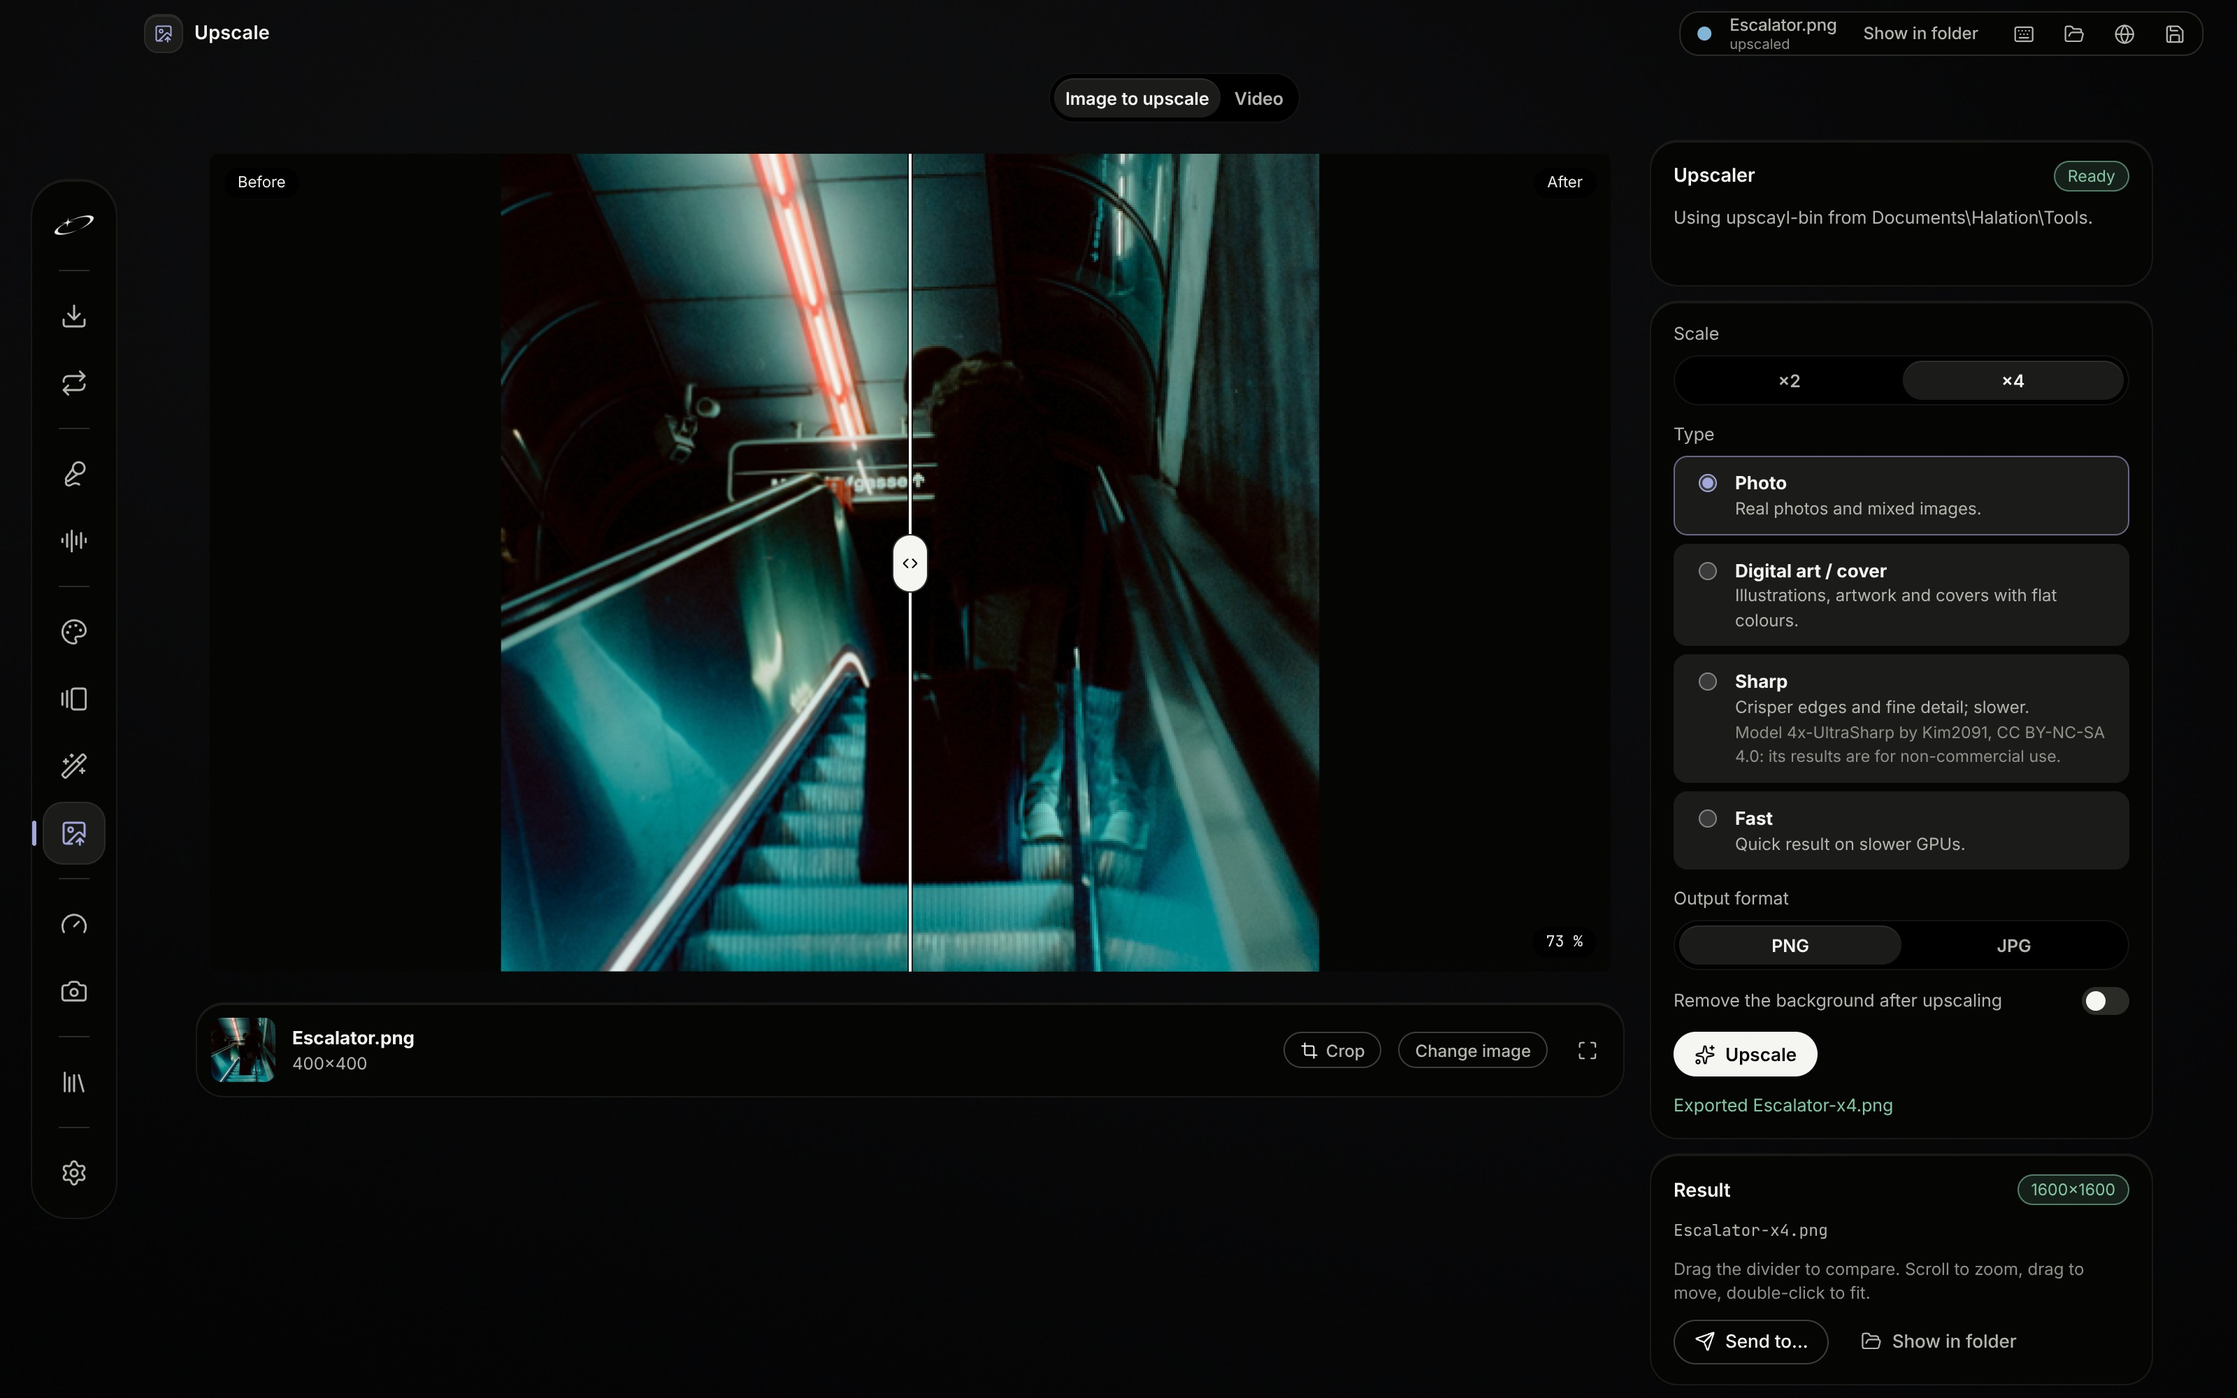
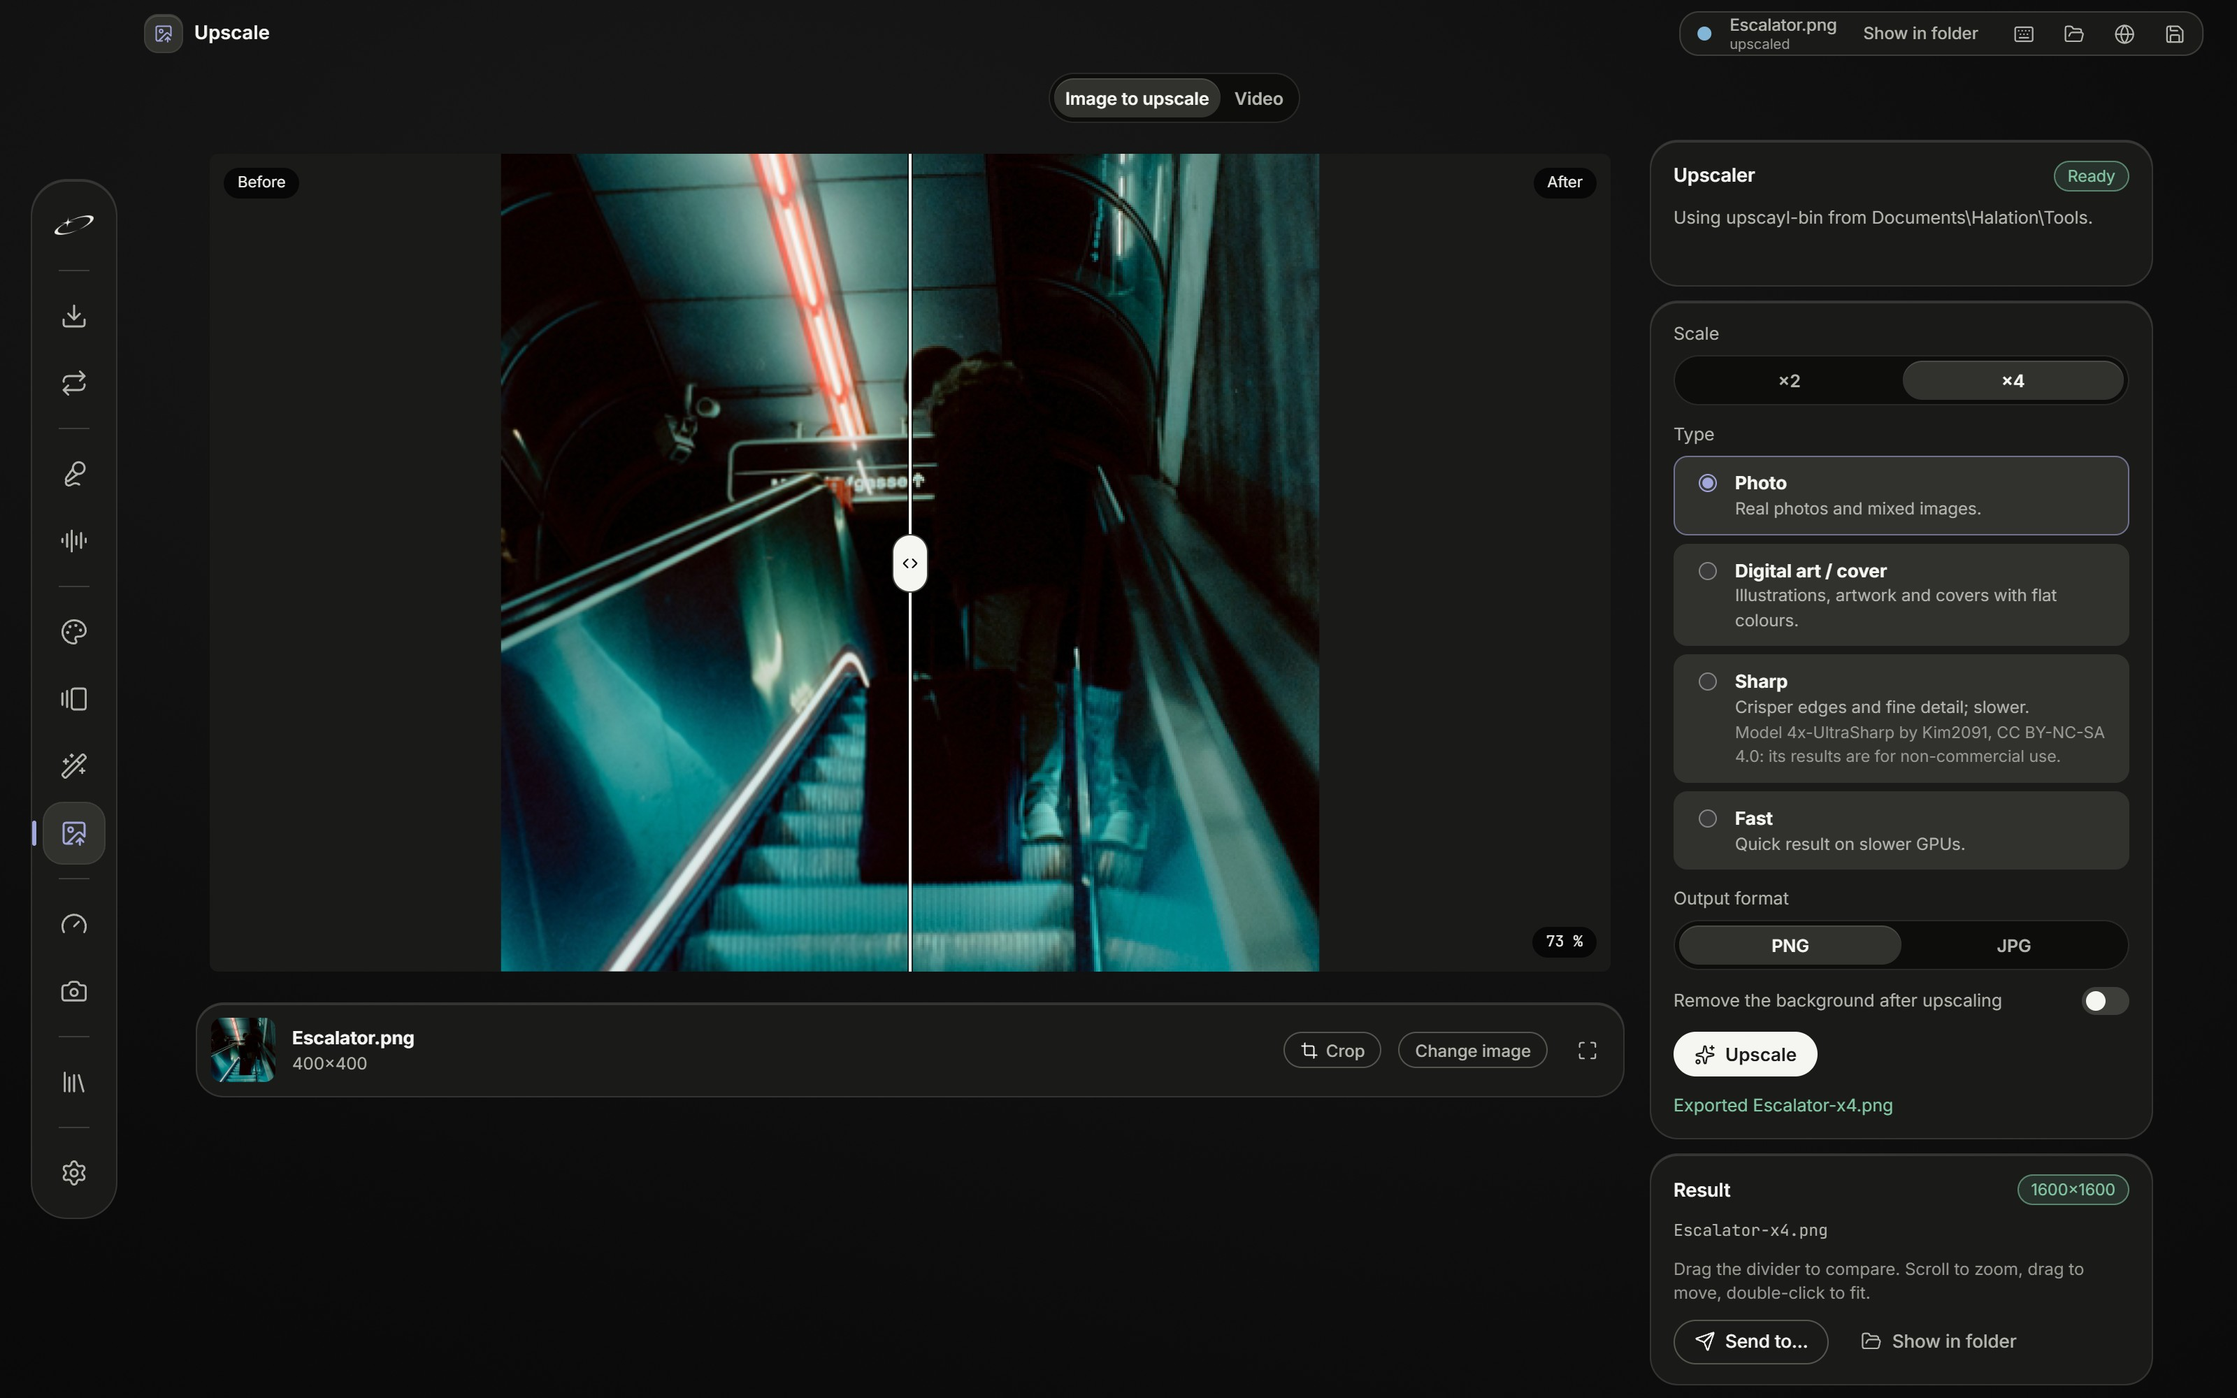
Colour rework: D tokens and H backgrounds (#12)
* Color rework spec: lighter slate neutrals, same identity

* Color rework spec: neutral greys, dark window, lifted layers

* Color rework spec: level D chosen

* Color rework spec: lifted backgrounds and Auralis, two amounts

* Color rework spec: what stays of Auralis

* Color rework spec: D tokens with H backgrounds approved

* Colour rework: D tokens and H backgrounds

Lifts the dock, bubbles, cards and raised controls in neutral greys and the tool and page windows to about #111111; Home's Auralis silk keeps its shape and hues at mean brightness 20. --red goes to #e17d73 to keep AA on the new raised surface. The 12 README captures regenerated.

---------

diff --git a/app/dist/tokens.css b/app/dist/tokens.css
@@ -1,18 +1,18 @@
 /* Halation design tokens. Every interface colour lives here; the rest of the CSS only uses these variables.
-   Rebrand: pure black window, #050504 bubbles, greys in wide steps for contrast; muted accents (periwinkle leads) so it
+   Colour rework (docs/COLOR_REWORK_SPEC.md): near-black window, #1a1a19 bubbles lifted above it, greys in wide steps; muted accents (periwinkle leads) so it
    is never flat black and white, and a pale blue that only lives in the atmosphere behind the interface (atmosphere.js). */
 :root{
   color-scheme: dark;
 
   /* Neutrals: near-neutral with a faint warm bias, from pure black to off-white */
   --n-1000:#000;
-  --n-950:#050504; --n-900:#0b0b0a; --n-850:#121211; --n-800:#1b1b19; --n-700:#2a2a27; --n-600:#3e3e3a;
-  --n-500:#6d6d67; --n-400:#908f89; --n-300:#b5b5af; --n-200:#d7d7d2; --n-100:#eaeae6; --n-50:#f5f5f2;
+  --n-950:#1a1a19; --n-900:#232321; --n-850:#2a2a28; --n-800:#31312e; --n-700:#3d3d39; --n-600:#55554f;
+  --n-500:#74746e; --n-400:#9a9993; --n-300:#b5b5af; --n-200:#d7d7d2; --n-100:#eaeae6; --n-50:#f5f5f2;
 
   /* Accents: muted, never neon; solid, tinted background (~15 %) and border. Periwinkle leads (sliders, switches,
      selection, focus, progress); the others each keep one job (states and effects) */
   --lavender:#a3a8dc; --lavender-dim:rgba(163,168,220,.15); --lavender-line:rgba(163,168,220,.55);
-  --red:#df7a70;      --red-dim:rgba(223,122,112,.13);      --red-line:rgba(223,122,112,.55);
+  --red:#e17d73;      --red-dim:rgba(223,122,112,.13);      --red-line:rgba(223,122,112,.55);
   --mint:#83c7a3;     --mint-dim:rgba(131,199,163,.14);     --mint-line:rgba(131,199,163,.55);
   --amber:#d9ae6a;    --amber-dim:rgba(217,174,106,.14);    --amber-line:rgba(217,174,106,.55);
   --cyan:#82b5d6;     --cyan-dim:rgba(130,181,214,.14);     --cyan-line:rgba(130,181,214,.55);
@@ -21,12 +21,12 @@
   /* Roles */
   --bg:var(--n-1000);           /* window, behind the atmosphere */
   --surface:var(--n-950);       /* bubbles: the dock, a tool's panels and toolbar */
-  --welcome-surface-low:#0a0a0a;
-  --welcome-surface-mid:#121212;
-  --welcome-surface-high:#171717;
+  --welcome-surface-low:#141413;
+  --welcome-surface-mid:#1c1c1b;
+  --welcome-surface-high:#232321;
   --panel:var(--n-900);         /* cards and sections, menus and dialogs */
   --raised:var(--n-800);        /* raised controls, hover */
-  --field:var(--n-1000);        /* text fields and selects */
+  --field:#0d0d0c;             /* text fields and selects */
   --line:var(--n-700);
   --line-strong:var(--n-600);
   --disabled:var(--n-500);
@@ -55,15 +55,15 @@
   --backdrop:rgba(0,0,0,.66);   /* behind dialogs */
 
   /* Bubbles: a hairline border and a lit top edge; see ui.css .card */
-  --line-soft:rgba(255,255,250,.075);   /* a bubble's border */
-  --edge:rgba(255,255,250,.08);         /* the light on a bubble's top edge */
-  --glass:rgba(5,5,4,.62);              /* a bubble over the moving Home atmosphere (blurred behind) */
+  --line-soft:rgba(255,255,250,.11);    /* a bubble's border */
+  --edge:rgba(255,255,250,.12);         /* the light on a bubble's top edge */
+  --glass:rgba(26,26,25,.68);           /* a bubble over the moving Home atmosphere (blurred behind) */
 
   /* Atmosphere (atmosphere.js): greys with a pale blue in the light; Home is lit, the tools almost black */
   --atmo:#b9c8e6;
   --media:#000;                 /* letterbox behind the preview canvas */
   --viewer:var(--n-950);        /* Upscale: behind a still picture, around its own aspect ratio */
-  --checker-a:#2a2a27; --checker-b:#1b1b19;   /* behind transparent previews and cut-out pictures */
+  --checker-a:#3d3d39; --checker-b:#31312e;   /* behind transparent previews and cut-out pictures */
   --matte-dark:#000; --matte-light:#fff;      /* Cutout: plain backgrounds to judge the edge on */
   --crop-shade:rgba(0,0,0,.66);                /* Crop: the picture outside the frame */
   --bg-select:#3d7dff;                         /* Remove Background: what counts as background (drawn at half opacity) */

diff --git a/app/dist/auralis.js b/app/dist/auralis.js
@@ -99,7 +99,7 @@ function snoise(x, y, z) {
 const F = {
   angle: .85, along: .38, across: .9, scale: .95, rate: .0055, drift: .5, warp: 1.3, ripple: .12, rippleFreq: 10,
   normal: .1, sheenPower: 1.6, bodyLow: -.2, bodyHigh: .55, voids: .9, diffuseFloor: .1, bodyGain: 1.1, sheenGain: .45,
-  vignette: .4, target: .054, maxBias: .5, minExposure: .8, maxExposure: 1.25
+  vignette: .4, target: .07, maxBias: .5, minExposure: .8, maxExposure: 1.25
 };
 const f4 = x => x.toFixed(5);
 const FIELD_GLSL = `
@@ -298,7 +298,7 @@ function stabiliserAt(aspect, t, fieldHeight, colors) {
 // GRAIN_UNIT: grain amplitude per unit of settings.grain × review strength; at the defaults (1.25 × 0.5) the grain is
 // half of the previous Auralis film grain at full strength (0.0098).
 const GRAIN_UNIT = .00784, FIELD_EDGE = 320, FIELD_FPS = 15, WAVE_FPS = 60, RESIZE_MS = 160, MAX_DT = .1;
-const DEFAULTS = { colors: ["#020203", "#5d6577", "#b4c4f0"], speed: 1, grain: 1.25 };
+const DEFAULTS = { colors: ["#0c0c0d", "#5d6577", "#b4c4f0"], speed: 1, grain: 1.25 };
 const rgb = c => { const s = String(c).replace("#", ""), h = s.length === 3 ? s.replace(/./g, "$&$&") : s, n = parseInt(h, 16); return isNaN(n) ? [0, 0, 0] : [(n >> 16 & 255) / 255, (n >> 8 & 255) / 255, (n & 255) / 255]; };
 const decode = b64 => Uint8Array.from(atob(b64), ch => ch.charCodeAt(0));
 

diff --git a/app/dist/soft-light.js b/app/dist/soft-light.js
@@ -10,11 +10,11 @@ float softDither(vec2 p) { return softHash(p) + softHash(p + 57.31) - 1.0; }
 vec3 softLight(vec2 p, float seconds, float welcome, float opening) {
   vec2 a = (p - vec2(-0.32, 0.335)) * vec2(0.72, 1.15);
   vec2 b = (p - vec2(0.45, -0.12)) * vec2(0.85, 1.05);
-  vec3 col = vec3(0.009, 0.010, 0.013);
+  vec3 col = vec3(0.032, 0.032, 0.031);
   vec3 first = mix(vec3(1.0), vec3(0.364706, 0.396078, 0.466667), 0.35);
   vec3 second = mix(vec3(1.0), vec3(0.705882, 0.768627, 0.941176), 0.5);
-  col += first * exp(-2.4 * dot(a, a)) * 0.052;
-  col += second * exp(-3.1 * dot(b, b)) * 0.019;
+  col += first * exp(-2.4 * dot(a, a)) * 0.068;
+  col += second * exp(-3.1 * dot(b, b)) * 0.025;
   // Two broad light volumes: spatial warping, breathing and drift, without visible edges.
   float phase = seconds * 0.174532925;
   float settled = smoothstep(0.35, 1.0, opening);

diff --git a/app/dist/atmosphere.js b/app/dist/atmosphere.js
@@ -85,7 +85,7 @@ const PAGE = `vec3 page(vec2 fc,float m){
   float a=exp(-2.1*length((uv-c1)*vec2(.7,1.6)));
   float b=exp(-2.9*length((uv-c2)*vec2(.8,1.8)));
   float s=a*.08+b*.042;
-  return s*mix(vec3(1.),tint,.6)+vec3(.006,.006,.005);
+  return s*mix(vec3(1.),tint,.6)+vec3(.030,.030,.029);
 }`;
 const HEAD = `precision highp float;uniform vec2 r;uniform float t;uniform vec3 tint;uniform vec3 v;uniform float m;uniform vec2 wave;
 ${NAVIGATION_REFRACTION_GLSL}

diff --git a/docs/COLOR_REWORK_SPEC.md b/docs/COLOR_REWORK_SPEC.md
@@ -1,0 +1,137 @@
+# Color rework spec
+
+Status: approved, D tokens with the H backgrounds; ready to implement. Colour only: layout, type, components, spacing, radii and
+motion stay as they are.
+
+## Problem
+
+The interface is built on near-black steps that are too close to tell apart. The window behind the tools (the quiet
+field in `soft-light.js`) renders at about `#060606`; the bubbles (`--surface`, `#050504`) are darker than that, and
+the cards (`--panel`, `#0b0b0a`) only 3 % lighter. On a monitor, in screenshots and in the README the bubbles read as
+holes or vanish, and the screen reads as one black mass with white text on it. Text contrast is fine; what is missing
+is the separation between surfaces.
+
+## Direction
+
+Keep the window near black and lift what sits on it: the dock, the bubbles, the cards and the raised controls, in
+neutral greys with the current faint warm bias. The separation comes from the distance between the window and the
+layers on it, so the window must not rise with them, and there is no blue tint (a first round with cool slate
+neutrals lifted the window too and read as monochrome; it was rejected).
+
+Two levels were prototyped on the real app. **D is the chosen one** (checked on an AMOLED phone as well as a desktop
+monitor). C stays in the tables as the reference step.
+
+- **C · Neutral**: the window as it is; bubbles and cards lifted.
+- **D · Neutral +**: one step more on every layer, and the window a touch above black so the dock's edge and the
+  bubbles' borders still read on dark monitors.
+
+## Tokens (`app/dist/tokens.css`)
+
+Only values change; no token is added, renamed or removed. Every token not listed keeps its value, including the
+accents (periwinkle and the state colours), the text colours above `--n-400`, and `--n-1000` (`#000`).
+
+| Token | Role | Current | C · Neutral | D · Neutral + |
+| --- | --- | --- | --- | --- |
+| `--n-950` | dock, bubbles, `--surface`, `--viewer` | `#050504` | `#151514` | `#1a1a19` |
+| `--n-900` | cards, sections, menus, dialogs, `--panel` | `#0b0b0a` | `#1d1d1b` | `#232321` |
+| `--n-850` | | `#121211` | `#232321` | `#2a2a28` |
+| `--n-800` | raised controls, hover, `--raised` | `#1b1b19` | `#2a2a27` | `#31312e` |
+| `--n-700` | `--line`, slider track | `#2a2a27` | `#353532` | `#3d3d39` |
+| `--n-600` | `--line-strong` | `#3e3e3a` | `#4a4a46` | `#55554f` |
+| `--n-500` | `--disabled` | `#6d6d67` | `#6d6d67` | `#74746e` |
+| `--n-400` | `--text-3` | `#908f89` | `#9a9993` | `#9a9993` |
+| `--field` | text fields, selects, segmented tracks | `var(--n-1000)` | `#0a0a09` | `#0d0d0c` |
+| `--welcome-surface-low` | Welcome | `#0a0a0a` | `#111110` | `#141413` |
+| `--welcome-surface-mid` | Welcome | `#121212` | `#191918` | `#1c1c1b` |
+| `--welcome-surface-high` | Welcome | `#171717` | `#1f1f1d` | `#232321` |
+| `--line-soft` | a bubble's border | `rgba(255,255,250,.075)` | `rgba(255,255,250,.10)` | `rgba(255,255,250,.11)` |
+| `--edge` | a bubble's lit top edge | `rgba(255,255,250,.08)` | `rgba(255,255,250,.11)` | `rgba(255,255,250,.12)` |
+| `--glass` | bubble over the Home atmosphere | `rgba(5,5,4,.62)` | `rgba(21,21,20,.66)` | `rgba(26,26,25,.68)` |
+| `--checker-a` / `--checker-b` | transparency checker | `#2a2a27` / `#1b1b19` | `#353532` / `#2a2a27` | `#3d3d39` / `#31312e` |
+
+## Backgrounds (shader constants)
+
+The window behind the tools and pages is drawn by WebGL, not by `--bg`, and Home is Auralis's silk. With D's tokens
+they read too dark, so they are lifted too; only base levels, light gains and Home's target brightness change, never
+the shapes, grain, motion or hues. The chosen amount is H; I (a stronger lift) stays as the reference.
+
+| Where | Constant | Current | H · D + background (chosen) | I · D + background + (reference) |
+| --- | --- | --- | --- | --- |
+| `soft-light.js` `softLight()` (tools, Welcome) | base `col` | `vec3(0.009, 0.010, 0.013)` | `vec3(0.032, 0.032, 0.031)` | `vec3(0.046, 0.046, 0.045)` |
+| | first light × | `0.052` | `0.068` | `0.080` |
+| | second light × | `0.019` | `0.025` | `0.030` |
+| `atmosphere.js` `PAGE` (Library, Settings) | base | `vec3(.006,.006,.005)` | `vec3(.030,.030,.029)` | `vec3(.044,.044,.042)` |
+| `auralis.js` `DEFAULTS.colors` (Home) | base, middle | `#020203`, `#5d6577` | `#0c0c0d`, `#5d6577` | `#161618`, `#6a7284` |
+| `auralis.js` `F` | `target`, `maxExposure` | `.054`, `1.25` | `.07`, `1.25` | `.11`, `1.5` |
+
+Sampled results: the tool window goes from about `#060606` to `#111111` (H) or `#161616` (I), always below the bubbles
+(`#1a1a19`); Home's mean brightness goes from 14.5 to 20 (H) or 29 (I) on 0–255.
+
+## Contrast (WCAG ratio)
+
+Measured with the sRGB relative luminance formula used by `app/tests/contrast.js`. The window is sampled from the
+captures (shader output: about `#060606` now and in C, `#0b0b0b` in D); the rest are token values.
+
+| Pair | Current | C | D |
+| --- | --- | --- | --- |
+| bubble vs window | 1.01 (bubble darker) | 1.11 | 1.13 |
+| card vs window | 1.03 | 1.20 | 1.25 |
+| card vs bubble | 1.04 | 1.08 | 1.11 |
+| raised vs bubble | 1.18 | 1.27 | 1.33 |
+| field vs bubble | 1.03 | 1.08 | 1.12 |
+| line vs bubble | 1.42 | 1.49 | 1.60 |
+| line-strong vs bubble | 1.90 | 2.05 | 2.32 |
+| text vs bubble | 18.67 | 16.73 | 15.95 |
+| text-2 vs bubble | 9.90 | 8.87 | 8.45 |
+| text-3 vs bubble | 6.29 | 6.29 | 6.10 |
+| text-3 vs card | 6.07 | 5.80 | 5.51 |
+| text-3 vs raised | 5.32 | 4.93 | 4.57 |
+| accent vs bubble | 8.92 | 8.00 | 7.62 |
+| accent fill vs slider track | 6.30 | 5.39 | 4.77 |
+
+Every text pair stays above AA (4.5:1); `--text-3` is raised to `#9a9993` so it still clears AA on raised controls.
+For the same reason `--red` goes from `#df7a70` to `#e17d73`: on D's `--raised` (`#31312e`) the old red reads 4.45:1
+(Grade's layer menu Delete, an errored row in Vocal Remover's queue) and the new one 4.59:1; `--red-dim` and
+`--red-line` keep their values.
+What improves is the separation: the bubbles go from darker than the window to clearly above it, and cards, fields,
+borders and tracks each sit on their own step.
+
+## What stays
+
+- Dark interface; no light theme.
+- The white primary button as the one filled button of a view.
+- Periwinkle leads (sliders, switches, selection, focus, progress), unchanged.
+- Neutral greys with the current faint warm bias; no blue tint.
+- The window near black.
+- Muted state colours (red, mint, amber, cyan, pink) unchanged.
+- The pale blue atmosphere, the shape, hues and motion of Home's Auralis silk, and the lit top edge of the bubbles.
+- Black where black is the content: `--media` (letterbox behind previews), `--matte-dark`, `--scrim`, `--backdrop`,
+  `--crop-shade`, `--busy-dim`.
+- Cover Test platform colours (`--yt-*`, `--sp-*`, `--sc-*`, …): they copy those sites and are never the interface's.
+
+## Acceptance criteria
+
+1. Only the D token values and the H background values above change, in `tokens.css`, `soft-light.js`,
+   `atmosphere.js` and `auralis.js`; no CSS, HTML or layout
+   change elsewhere. `node app/tests/colors.js` passes (no colour outside the tokens).
+2. In every tool and page, window < bubble < card < raised in luminance, measured on a capture; the dock, the
+   bubbles and the cards are told apart at a glance in the README captures.
+3. `app/tests/contrast.js` reports no new failures in either language.
+4. Previews, cut-outs and exports are unaffected: the letterbox stays `#000`, exported files are byte-identical for
+   the same input (the change touches only the interface).
+5. The README captures (`npm run shots`) are regenerated with the new colours in the same commit.
+6. The visual reviewer checks the 12 README screens plus Welcome and Settings once at the end.
+
+## Out of scope
+
+- Layout, spacing, radii, type, icons, components, copy.
+- Motion and the shape, lights or animation of the backgrounds.
+- Accent and state colours.
+- A light theme or a theme switch.
+- Brand assets (logo, app icon, README hero artwork).
+- Cover Test's platform recreations.
+
+## Prototype
+
+The captures were made with `app/tests/shots.js` against the mocked backend, overriding the tokens above with an
+injected stylesheet and the shader constants patched locally; the app code was not changed.
